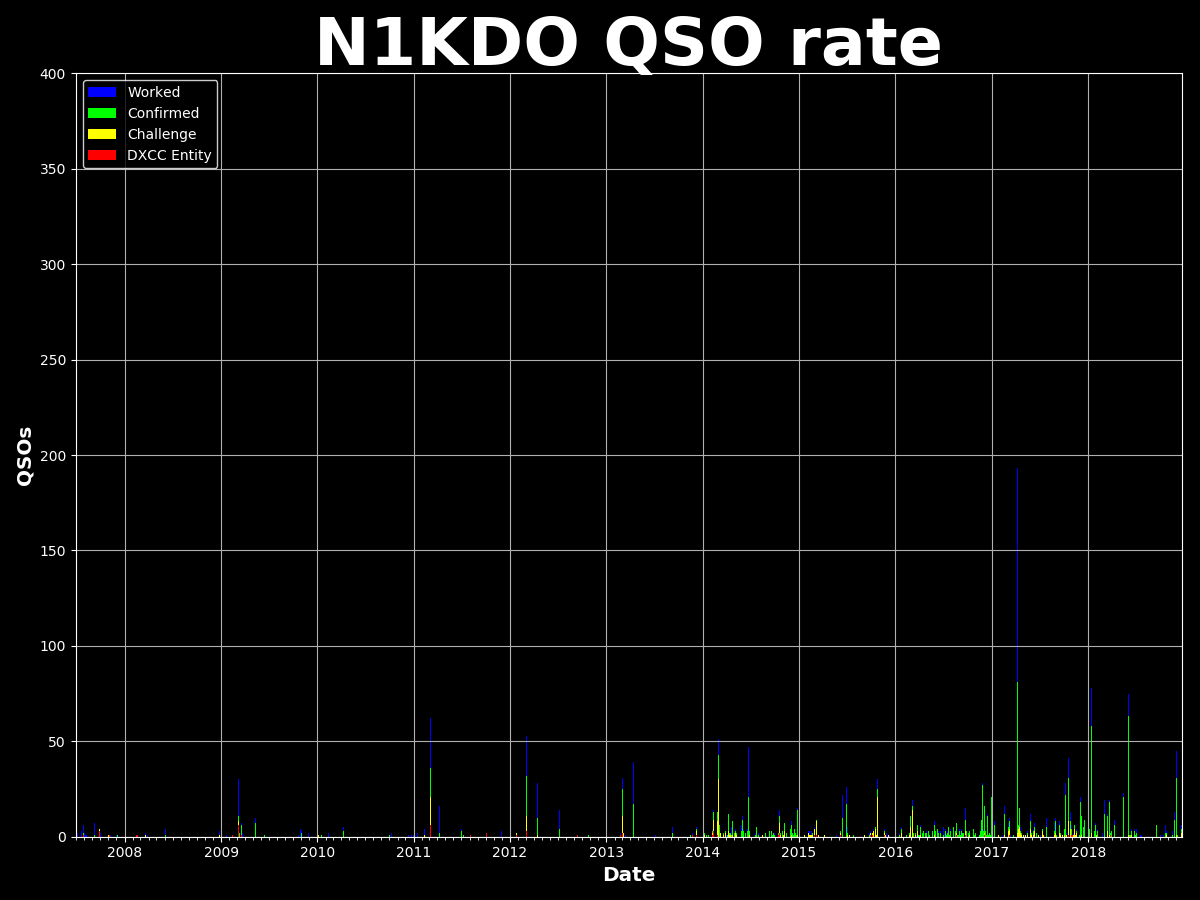
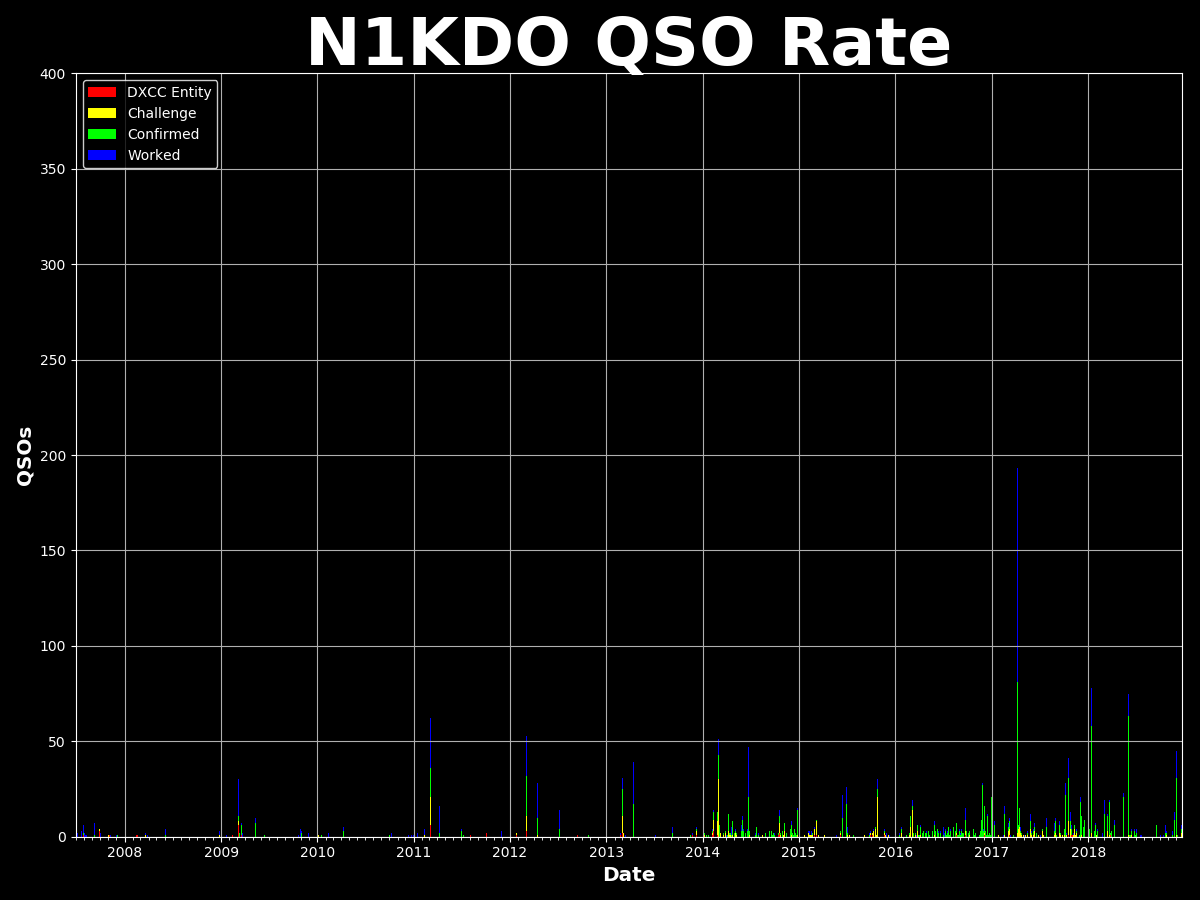
more stacked bar cleanup on rate charts.  data might be meaningful now.

Changed region(s): [[0.2467, 0.0, 0.8017, 0.0933], [0.0617, 0.0933, 0.185, 0.1867]]

diff --git a/qso_charts.py b/qso_charts.py
@@ -1,4 +1,5 @@
 import logging
+import numpy as np
 import matplotlib
 from matplotlib.dates import DateFormatter, YearLocator, MonthLocator
 from matplotlib.ticker import FormatStrFormatter
@@ -188,7 +189,8 @@ def plot_qsos_rate(date_records, title, filename, start_date=None, end_date=None
     """
     make the chart
     """
-    data = [[], [], [], [], []]
+    dates = []
+    data = [[], [], [], []]
     maxy = 0
     for t in date_records:
         qdate = t[0]
@@ -196,14 +198,14 @@ def plot_qsos_rate(date_records, title, filename, start_date=None, end_date=None
             # compute stacked bar sizes
             counts = t[1]
             new_dxcc = counts['new_dxcc']
-            challenge = counts['challenge'] - new_dxcc
-            confirmed = counts['confirmed'] - challenge
-            worked = counts['worked'] - confirmed
-            data[0].append(qdate)
-            data[1].append(new_dxcc)
-            data[2].append(challenge)
-            data[3].append(confirmed)
-            data[4].append(worked)
+            challenge = counts['challenge'] - counts['new_dxcc']
+            confirmed = counts['confirmed'] - counts['challenge']
+            worked = counts['worked'] - counts['confirmed']
+            dates.append(qdate)
+            data[0].append(new_dxcc)
+            data[1].append(challenge)
+            data[2].append(confirmed)
+            data[3].append(worked)
             total = worked + confirmed + challenge + new_dxcc
             if total > maxy:
                 maxy = total
@@ -218,24 +220,29 @@ def plot_qsos_rate(date_records, title, filename, start_date=None, end_date=None
 
     ax.set_title(title, color=FG, size=48, weight='bold')
 
-    dates = matplotlib.dates.date2num(data[0])
+    dates = matplotlib.dates.date2num(dates)
     if start_date is None:
         start_date = dates[0]
     if end_date is None:
         end_date = dates[-1]
     ax.set_xlim(start_date, end_date)
+    ax.set_ylim(0, auto_scale(maxy))
 
+    offsets = np.zeros((len(dates)), np.int32)
+    colors = ['#ff0000', '#ffff00', '#00ff00', '#0000ff']
+    labels = ['DXCC Entity', 'Challenge', 'Confirmed', 'Worked']
     width = 1
-    bars = []
-    labels = []
-    bars.append(ax.bar(dates, data[4], width, bottom=data[3], color='#0000ff'))
-    labels.append('Worked')
-    bars.append(ax.bar(dates, data[3], width, bottom=data[2], color='#00ff00'))
-    labels.append('Confirmed')
-    bars.append(ax.bar(dates, data[2], width, bottom=data[1], color='#ffff00'))
-    labels.append('Challenge')
-    bars.append(ax.bar(dates, data[1], width, color='#ff0000'))
-    labels.append('DXCC Entity')
+    d = np.array(data[0])
+    ax.bar(dates, d, width, bottom=offsets, color=colors[0], label=labels[0])
+    offsets += d
+    d = np.array(data[1])
+    ax.bar(dates, d, width, bottom=offsets, color=colors[1], label=labels[1])
+    offsets += d
+    d = np.array(data[2])
+    ax.bar(dates, d, width, bottom=offsets, color=colors[2], label=labels[2])
+    offsets += d
+    d = np.array(data[3])
+    ax.bar(dates, d, width, bottom=offsets, color=colors[3], label=labels[3])
     ax.grid(True)
 
     ax.tick_params(axis='y', colors=FG, which='both', direction='out')
@@ -255,7 +262,7 @@ def plot_qsos_rate(date_records, title, filename, start_date=None, end_date=None
     ax.xaxis.set_major_formatter(DateFormatter('%Y'))
     #ax.xaxis.set_minor_formatter(DateFormatter('%M'))
 
-    legend = ax.legend(bars, labels, loc='upper left', numpoints=1, facecolor=BG, edgecolor=FG)
+    legend = ax.legend(loc='upper left', numpoints=1, facecolor=BG, edgecolor=FG)
     for text in legend.get_texts():
         text.set_color(FG)
 
@@ -271,21 +278,27 @@ def plot_qsos_band_rate(date_records, title, filename, start_date=None, end_date
     make the chart
     """
     challenge_bands = ['160M', '80M', '40M', '30M', '20M', '17M', '15M', '12M', '10M', '6M']
-    colors = ['r', 'g', 'b', 'c', 'r', '#ffff00', '#ff6600', '#00ff00', '#663300', '#00ff99']
-    markers = ['*', '^', 'd', '*', 'o', 'h', 's', 'p', 's', 'd']
+    colors = ['violet', 'g', 'b', 'c', 'r', '#ffff00', '#ff6600', '#00ff00', '#663300', '#00ffff']
 
-    data = [[], [], [], [], [], [], [], [], [], [], []]
+    data = [[], [], [], [], [], [], [], [], [], []]
+    dates = []
+    biggest = 0
 
     for t in date_records:
         qdate = t[0]
-        counts = t[1]
-        data[0].append(qdate)
-        for i in range(0, len(challenge_bands)):
-            #  data[i+1].append(no_zero(counts[challenge_bands[i]]))
-            data[i + 1].append(counts[challenge_bands[i]])
+        if (start_date is None or qdate >= start_date) and (end_date is None or qdate <= end_date):
+            counts = t[1]
+            dates.append(qdate)
+            sum = 0
+            for i in range(0, len(challenge_bands)):
+                band_count = counts[challenge_bands[i]]
+                sum += band_count
+                data[i].append(band_count)
+            if sum > biggest:
+                biggest = sum
+
 
     logging.debug('make_plot(...,...,%s)', title)
-    # {'pad': 0.10}
     fig = plt.Figure(figsize=(WIDTH_INCHES, HEIGHT_INCHES), dpi=100, tight_layout=True)
 
     if matplotlib.__version__[0] == '1':
@@ -295,18 +308,22 @@ def plot_qsos_band_rate(date_records, title, filename, start_date=None, end_date
 
     ax.set_title(title, color=FG, size=48, weight='bold')
 
-    dates = matplotlib.dates.date2num(data[0])
-    labels = ['dxcc', 'challenge', 'confirmed', 'worked']
+    dates = matplotlib.dates.date2num(dates)
     if start_date is None:
         start_date = dates[0]
     if end_date is None:
         end_date = dates[-1]
     ax.set_xlim(start_date, end_date)
-    # ax.set_ylim(0, 100)
+    ax.set_ylim(0, auto_scale(biggest))
 
+    width = 1
+
+    offset = np.zeros((len(dates)), dtype=np.int32)
     for i in range(0, len(challenge_bands)):
-        ax.plot_date(dates, data[i + 1], markerfacecolor=colors[i], marker=markers[i], mew=0, markersize=5,
-                     label=challenge_bands[i])
+        ta = np.array(data[i])
+        ax.bar(dates, ta, width, bottom=offset, color=colors[i], label=challenge_bands[i])
+        offset += ta
+
     ax.grid(True)
 
     ax.tick_params(axis='y', colors=FG, which='both', direction='out')
@@ -322,6 +339,7 @@ def plot_qsos_band_rate(date_records, title, filename, start_date=None, end_date
     ax.xaxis.set_major_locator(YearLocator())
     ax.xaxis.set_minor_locator(MonthLocator())
     ax.xaxis.set_major_formatter(DateFormatter('%Y'))
+    #ax.xaxis.set_minor_formatter(DateFormatter('%m'))
     legend = ax.legend(loc='upper left', numpoints=1, facecolor=BG, edgecolor=FG)
     for text in legend.get_texts():
         text.set_color(FG)

diff --git a/lotw-qso-analyzer.py b/lotw-qso-analyzer.py
@@ -254,22 +254,26 @@ def crunch_data(callsign, qso_list):
 def draw_charts(date_records, callsign):
     start_date = None
     end_date = None
-    #start_date = datetime.datetime.strptime('20070101', '%Y%m%d').date()
-    #end_date = datetime.datetime.strptime('20181231', '%Y%m%d').date()
+    #start_date = datetime.datetime.strptime('20170101', '%Y%m%d').date()
+    #end_date   = datetime.datetime.strptime('20181231', '%Y%m%d').date()
 
     callsign = callsign.upper()
 
     # now draw the charts
-    qso_charts.plot_qsos_by_date(date_records, callsign + ' QSOs', callsign + '_qsos.png', start_date=start_date,
+    qso_charts.plot_qsos_by_date(date_records, callsign + ' QSOs',
+                                 callsign + '_qsos_by_date.png', start_date=start_date,
                                  end_date=end_date)
-    qso_charts.plot_dxcc_qsos(date_records, callsign + ' DXCC QSOs', callsign + '_dxcc_qsos.png', start_date=start_date,
+    qso_charts.plot_dxcc_qsos(date_records, callsign + ' DXCC QSOs',
+                              callsign + '_dxcc_qsos.png', start_date=start_date,
                               end_date=end_date)
-    qso_charts.plot_qsos_rate(date_records, callsign + ' QSO rate', callsign + '_qso_rate.png', start_date=start_date,
+    qso_charts.plot_qsos_rate(date_records, callsign + ' QSO Rate',
+                              callsign + '_qso_rate.png', start_date=start_date,
                               end_date=end_date)
-    qso_charts.plot_qsos_band_rate(date_records, callsign + ' QSO by band', callsign + '_band_rate.png',
+    qso_charts.plot_qsos_band_rate(date_records, callsign + ' QSO by Band',
+                                   callsign + '_qsos_band_rate.png',
                                    start_date=start_date, end_date=end_date)
     qso_charts.plot_challenge_bands_by_date(date_records, callsign + ' Challenge Band Slots',
-                                            callsign + '_band_slots.png', start_date=start_date, end_date=end_date)
+                                            callsign + '_challenge_bands_by_date.png', start_date=start_date, end_date=end_date)
 
 
 def compare_lists(qso_list, cards_list):

diff --git a/README.md b/README.md
@@ -12,11 +12,11 @@ over time.
 
 ![Example](n1kdo_qso_rate.png)
 
-![Example](n1kdo_band_slots.png)
+![Example](n1kdo_challenge_bands_by_date.png)
 
-![Example](n1kdo_band_rate.png)
+![Example](n1kdo_qsos_band_rate.png)
 
-![Example](n1kdo_qsos.png)
+![Example](n1kdo_qsos_by_date.png)
 
 I might do more work on this, or I might not.  
 I'm putting it on GitHub because others might find it useful.  
